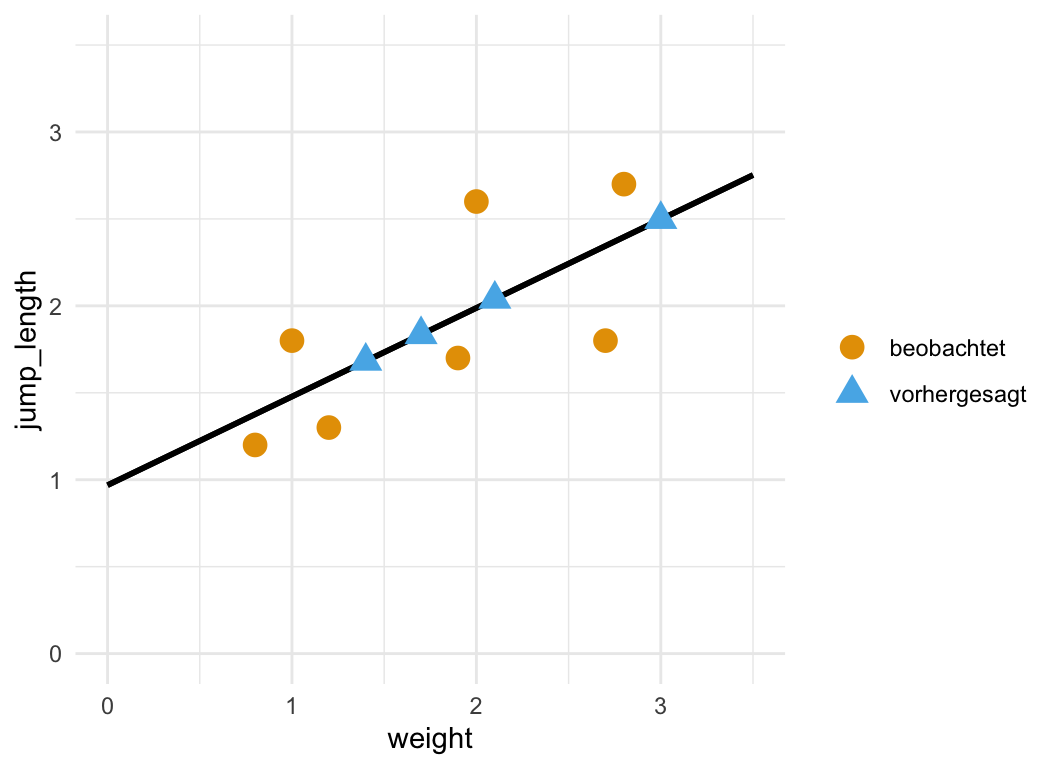
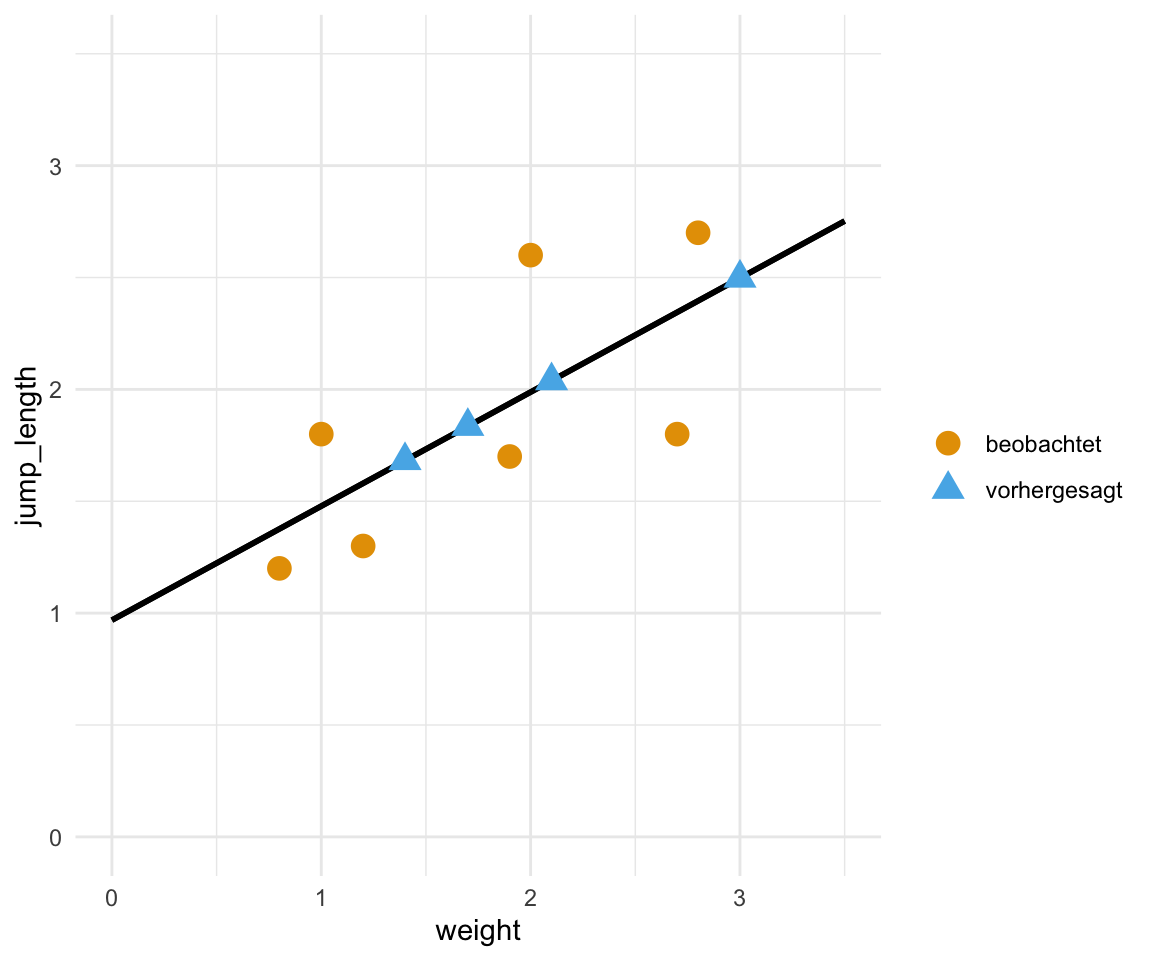
added ideas

diff --git a/docs/stat-linear-reg-basic.html b/docs/stat-linear-reg-basic.html
@@ -719,7 +719,7 @@ pre > code.sourceCode > span > a:first-child::before { text-decoration: underlin
   <li><a href="#simple-lineare-regression-theoretisch" id="toc-simple-lineare-regression-theoretisch" class="nav-link" data-scroll-target="#simple-lineare-regression-theoretisch"><span class="header-section-number">36.3</span> Simple lineare Regression theoretisch</a></li>
   <li><a href="#simples-lineare-regression-in-r" id="toc-simples-lineare-regression-in-r" class="nav-link" data-scroll-target="#simples-lineare-regression-in-r"><span class="header-section-number">36.4</span> Simples lineare Regression in R</a>
   <ul class="collapse">
-  <li><a href="#inferenz-modell" id="toc-inferenz-modell" class="nav-link" data-scroll-target="#inferenz-modell"><span class="header-section-number">36.4.1</span> Inferenz Modell</a></li>
+  <li><a href="#inferenzmodell" id="toc-inferenzmodell" class="nav-link" data-scroll-target="#inferenzmodell"><span class="header-section-number">36.4.1</span> Inferenzmodell</a></li>
   <li><a href="#sec-simple-kausal" id="toc-sec-simple-kausal" class="nav-link" data-scroll-target="#sec-simple-kausal"><span class="header-section-number">36.4.2</span> Kausales Modell</a></li>
   <li><a href="#sec-simple-pred" id="toc-sec-simple-pred" class="nav-link" data-scroll-target="#sec-simple-pred"><span class="header-section-number">36.4.3</span> Prädiktives Modell</a></li>
   </ul></li>
@@ -746,21 +746,32 @@ pre > code.sourceCode > span > a:first-child::before { text-decoration: underlin
 
 </header>
 
-<p><em>Letzte Änderung am 11. February 2024 um 17:57:23</em></p>
+<p><em>Letzte Änderung am 11. February 2024 um 18:11:11</em></p>
 <blockquote class="blockquote">
 <p><em>“Farewell to the Fairground; These rides aren’t working anymore.” — White Lies, Farewell to the Fairground</em></p>
 </blockquote>
+<p>In diesem Kapitel wollen wir uns mit den Grundlagen der simplen linearen Regression beschäftigen. Damit meine ich erstmal die Idee eine Gerade durch eine Punktewolke zu zeichnen. Wir haben auf der <span class="math inline">\(x\)</span>-Achse kontinuierliche Werte wie auch auf der <span class="math inline">\(y\)</span>-Achse vorliegen. Das ist erstmal die simpelste Anwendung. Wir lernen hier einmal die Grundbegriffe und erweitern diese dann auf komplexere Modelle. Das heißt, wir haben ein Outcome <span class="math inline">\(y\)</span>, was eine normalverteilte und kontinuierliche Variable ist, sowie eine Einflussvariable <span class="math inline">\(x_1\)</span>, die eine kontinuierliche Variable ist. Wir wollen jetzt herausfinden, welchen Einfluss oder Effekt die Einflussvariable <span class="math inline">\(x_1\)</span> auf das normalverteilte Outcome <span class="math inline">\(y\)</span> hat. Wir schreiben hier <span class="math inline">\(x_1\)</span>, da wir damit ausdrücken, dass wir später auch noch mehr Einflussvariablen <span class="math inline">\(x\)</span> in der multiplen linearen Regression nutzen werden.</p>
+<div class="quarto-layout-panel">
+<div class="quarto-layout-row quarto-layout-valign-center">
+<div class="quarto-layout-cell" style="flex-basis: 15.0%;justify-content: center;">
 <div class="quarto-figure quarto-figure-center">
 <figure class="figure">
-<p><img src="images/caution.png" class="img-fluid figure-img" style="width:50.0%"></p>
+<p><img src="images/angel_01.png" class="img-fluid figure-img"></p>
 </figure>
 </div>
-<p>In diesem Kapitel wollen wir uns mit den Grundlagen der simplen linearen Regression beschäftigen. Damit meine ich erstmal die Idee eine Gerade durch eine Punktewolke zu zeichnen. Wir haben auf der <span class="math inline">\(x\)</span>-Achse kontinuierliche Werte wie auch auf der <span class="math inline">\(y\)</span>-Achse vorliegen. Das ist erstmal die simpelste Anwendung. Wir lernen hier einmal die Grundbegriffe und erweitern diese dann auf komplexere Modelle. Das heißt, wir haben ein Outcome <span class="math inline">\(y\)</span>, was eine normalverteilte und kontinuierliche Variable ist, sowie eine Einflussvariable <span class="math inline">\(x_1\)</span>, die eine kontinuierliche Variable ist. Wir wollen jetzt herausfinden, welchen Einfluss oder Effekt die Einflussvariable <span class="math inline">\(x_1\)</span> auf das normalverteilte Outcome <span class="math inline">\(y\)</span> hat. Sehr simpel gesprochen legen wir eine Gerade durch eine Punktewolke. Du kannst dich aber davon gedanklich lösen, dass die lineare Regression <em>nur</em> eine Methode ist um eine Gerade durch eine Punktewolke zu legen. Die lineare Regression und damit auch das statistische Modellieren kann viel mehr.</p>
-<p>Wir fassen also zusammen. Ein simples lineares Modell hat <em>ein</em> kontinuierliches <span class="math inline">\(x\)</span> als Einflussvariable. Später können wir dann auch andere <span class="math inline">\(x\)</span> nehmen, wie zum Beispiel <em>einen</em> Faktor <span class="math inline">\(f\)</span> als kategoriale Einflussvariable.</p>
+</div>
+<div class="quarto-layout-cell" style="flex-basis: 85.0%;justify-content: center;">
+<blockquote class="blockquote">
+<p>Wenn du jetzt denkst ‘Hä?’, dann besuche doch einmal die fantastische Seite <a href="https://setosa.io/ev/ordinary-least-squares-regression/">Explained Visually | Ordinary Least Squares Regression</a> um selber zu erfahren, was eine lineare Regression macht. Auf der Seite finest du interaktive Abbildungen, die dir das Konzept der linearen Regression sehr anschaulich nachvollziehen lassen.</p>
+</blockquote>
+</div>
+</div>
+</div>
+<p>Sehr simpel gesprochen legen wir also eine Gerade durch eine Punktewolke. Du kannst dich aber davon gedanklich lösen, dass die lineare Regression <em>nur</em> eine Methode ist um eine Gerade durch eine Punktewolke zu legen. Die lineare Regression und damit auch das statistische Modellieren kann viel mehr. Wir fassen also zusammen. Ein simples lineares Modell hat <em>ein</em> kontinuierliches <span class="math inline">\(x\)</span> als Einflussvariable. Später können wir dann auch andere <span class="math inline">\(x\)</span> nehmen, wie zum Beispiel <em>einen</em> Faktor <span class="math inline">\(f\)</span> als kategoriale Einflussvariable.</p>
 <p><span class="math display">\[
 y \sim x_1
 \]</span></p>
-<p>Damit beginnen wir hier einmal mit den Konzept der linearen Regression in dem wir wirklich sehr einfach uns eine Punktewolke vorstellen und durch diese Punktewolke die optimale Gerade zeichne wollen. Dann wollen wir wissen wie gut das geklappt hat. Liegen die Punkte weit von der Geraden entfernt oder eher näher dran? In der <a href="#fig-scatter-lin-00">Abbildung&nbsp;<span>36.1</span></a> siehst du einmal eine Punktewolke die sich aus den Werten der <span class="math inline">\(x\)</span>-Achse und den Werten auf der <span class="math inline">\(y\)</span>-Achse ergibt. Wir wollen jetzt mathematisch verstehen, wie wir die rote Gerade entsteht. Das ist die Idee der simplen linearen Regression.</p>
+<p>Damit beginnen wir hier einmal mit den Konzept der linearen Regression in dem wir wirklich sehr einfach uns eine Punktewolke vorstellen und durch diese Punktewolke die optimale Gerade zeichen wollen. Dann wollen wir wissen wie gut das geklappt hat. Liegen die Punkte weit von der Geraden entfernt oder eher näher dran? In der <a href="#fig-scatter-lin-00">Abbildung&nbsp;<span>36.1</span></a> siehst du einmal eine Punktewolke die sich aus den Werten der <span class="math inline">\(x\)</span>-Achse und den Werten auf der <span class="math inline">\(y\)</span>-Achse ergibt. Wir wollen jetzt mathematisch verstehen, wie wir die rote Gerade entsteht. Das ist die Idee der simplen linearen Regression.</p>
 <div class="cell" data-layout-align="center">
 <div class="cell-output-display">
 <div id="fig-scatter-lin-00" class="quarto-figure quarto-figure-center anchored">
@@ -784,9 +795,9 @@ Weitere Tutorien für die simple lineare Regression
 <div class="callout-body-container callout-body">
 <p>Wir immer geht natürlich mehr als ich hier Vorstellen kann. Du findest im Folgenden Tutorien, die mich hier in dem Kapitel inspiriert haben. Ich habe mich ja in diesem Kapitel auf die Durchführbarkeit in R und die allgemeine Verständlichkeit konzentriert. Es geht aber natürlich wie immer auch mathematischer…</p>
 <ul>
-<li><a href="https://en.wikipedia.org/wiki/Simple_linear_regression#Fitting_the_regression_line">Simple Regression auf Wikipedia</a> mit weit mehr Informationen zu den Formeln und den Zusammenhängen. Ein toller zusammenfassender Artikel.</li>
-<li>Du kannst auf der Seite <a href="https://davetang.org/muse/2012/02/10/manual-linear-regression-analysis-using-r/">Manual linear regression analysis using R</a> nochmal weiter über die lineare Regression lesen. Der Blogpost ist sehr umfangreich und erklärt nochmal schrittweise, wie die lineare Regression in R per hand funktioniert.</li>
 <li>Wir funktioniert nun so eine lineare Regression und was sind den jetzt eigentlich die Koeffizienten <span class="math inline">\(\beta_0\)</span> und <span class="math inline">\(\beta_1\)</span> eigentlich? Hier gibt es die fantastische Seite <a href="https://setosa.io/ev/ordinary-least-squares-regression/">Explained Visually | Ordinary Least Squares Regression</a>, die dir nochmal erlaubt selbe mit Punkten in einem Scatterplot zu spielen und zu sehen wie sich dann die Regressionsgleichung ändert.</li>
+<li>Du kannst auf der Seite <a href="https://davetang.org/muse/2012/02/10/manual-linear-regression-analysis-using-r/">Manual linear regression analysis using R</a> nochmal weiter über die lineare Regression lesen. Der Blogpost ist sehr umfangreich und erklärt nochmal schrittweise, wie die lineare Regression in R per hand funktioniert.</li>
+<li><a href="https://en.wikipedia.org/wiki/Simple_linear_regression#Fitting_the_regression_line">Simple Regression auf Wikipedia</a> mit weit mehr Informationen zu den Formeln und den Zusammenhängen. Ein toller zusammenfassender Artikel.</li>
 </ul>
 </div>
 </div>
@@ -859,7 +870,7 @@ Weitere Tutorien für die simple lineare Regression
 <div class="cell-output-display">
 <div id="fig-scatter-lin-01" class="quarto-figure quarto-figure-center anchored">
 <figure class="figure">
-<p><img src="stat-linear-reg-basic_files/figure-html/fig-scatter-lin-01-1.png" class="img-fluid figure-img" width="384"></p>
+<p><img src="stat-linear-reg-basic_files/figure-html/fig-scatter-lin-01-1.png" class="img-fluid figure-img" width="576"></p>
 <figcaption class="figure-caption">Abbildung&nbsp;36.2— Scatterplot der Beobachtungen der Sprungweite in [cm] und dem Gewicht in [mg]. Die Gerade verläuft mittig durch die Punkte.</figcaption>
 </figure>
 </div>
@@ -1058,14 +1069,14 @@ y \sim \beta_0 + \beta_1 x_1 + \epsilon
 </div>
 </div>
 </div>
-<p>Hier nochmal die Möglichkeiten aus der <a href="#fig-mermaid-simple-reg-01">Abbildung&nbsp;<span>36.4</span></a> mit mehr Details.</p>
+<p>Hier nochmal die Möglichkeiten aus der <a href="#fig-mermaid-simple-reg-01">Abbildung&nbsp;<span>36.4</span></a> mit mehr Details zu der obigen Flowchart. Für mehr Informationen musst du dann die entsprechenden Kapitel besuchen, hier passt dann alles wirklich nicht hin für ein so komplexen Thema wie die Modellierung von Daten.</p>
 <ul>
 <li>Wir rechnen mit dem Fit des Modells einen Gruppenvergleich oder eine Inferenzstatistik (siehe <a href="stat-tests-anova.html"><span>Kapitel&nbsp;28</span></a> zu der ANOVA oder <a href="stat-tests-posthoc.html"><span>Kapitel&nbsp;33</span></a> zu multiplen Vergleichen) – wir wollen also einen Vergleich zwischen Gruppen rechnen. Wir haben damit dann kein kontinuierliches <span class="math inline">\(x\)</span> vorliegen sondern einen Faktor mit verschiedenen Leveln als Gruppen.</li>
 <li>Wir rechnen ein kausales Modell, uns interessieren die Effekte (siehe <a href="#sec-simple-kausal"><span>Kapitel&nbsp;36.4.2</span></a>) – wir sind an den Effekten von verschiedenen Einflussvariablen interessiert. Dabei geht es dann weniger um eine Behandlungsgruppe sondern um viele verschiedene Einflussvariablen, die verstanden werden wollen in ihrem Einfluss auf das Outcome <span class="math inline">\(y\)</span>. Wir können uns dann die Ergebnisse durch die Funktionen <code>augment()</code> und <code>glance()</code> aus dem R Paket <code>{broom}</code> näher anschauen.</li>
 <li>Wir rechnen ein prädiktives Modell, uns interessiert der Wert <em>neuer</em> Werte (siehe <a href="#sec-simple-pred"><span>Kapitel&nbsp;36.4.3</span></a>) – wir wollen dann also eine Vorhersage rechnen. Wir bauen uns ein komplexes Modell und wollen mit diesem Modell zukünftige Werte vom Outcome <span class="math inline">\(y\)</span> vorhersagen. Wenn wir also neue Einflussvariablen <span class="math inline">\(x\)</span> messen, können wir dann anhand des Modells unbekannte Outcomes <span class="math inline">\(y\)</span> bestimmen. Wir können uns dann mehr Informationen zu der Güte der Vorhersage mit der Funktion <code>conf_mat()</code> aus dem R Paket <code>{tidymodels}</code> anschauen.</li>
 </ul>
-<section id="inferenz-modell" class="level3" data-number="36.4.1">
-<h3 data-number="36.4.1" class="anchored" data-anchor-id="inferenz-modell"><span class="header-section-number">36.4.1</span> Inferenz Modell</h3>
+<section id="inferenzmodell" class="level3" data-number="36.4.1">
+<h3 data-number="36.4.1" class="anchored" data-anchor-id="inferenzmodell"><span class="header-section-number">36.4.1</span> Inferenzmodell</h3>
 <p>In diesem Kapitel betrachten wir nicht die Analyse von Gruppenvergleichen oder der Inferenzstatistik. Das machen wir dann in eigenen Kapiteln. Bitte besuche das <a href="stat-tests-anova.html"><span>Kapitel&nbsp;28</span></a> zu mehr Informationen zu der einfaktoriellen und zweifaktoriellen ANOVA oder <a href="stat-tests-posthoc.html"><span>Kapitel&nbsp;33</span></a> zu multiplen Vergleichen. Es würde dieses Kapitel sprengen, wenn wir uns dann hier die Sachlage nochmal hier aufrollen würde.</p>
 </section>
 <section id="sec-simple-kausal" class="level3" data-number="36.4.2">
@@ -1160,7 +1171,7 @@ T_{weight} &amp;= \cfrac{\mbox{estimate}}{\mbox{std.error}}  = \cfrac{0.510}{0.2
 <div class="cell-output-display">
 <div id="fig-scatter-lin-pred" class="quarto-figure quarto-figure-center anchored">
 <figure class="figure">
-<p><img src="stat-linear-reg-basic_files/figure-html/fig-scatter-lin-pred-1.png" class="img-fluid figure-img" width="528"></p>
+<p><img src="stat-linear-reg-basic_files/figure-html/fig-scatter-lin-pred-1.png" class="img-fluid figure-img" width="576"></p>
 <figcaption class="figure-caption">Abbildung&nbsp;36.6— Scatterplot der <em>alten</em> Beobachtungen der Sprungweite in [cm] und dem Gewicht in [mg]. Sowie der <em>neuen</em> vorhergesagten Beobachtungen auf der Geraden.</figcaption>
 </figure>
 </div>
